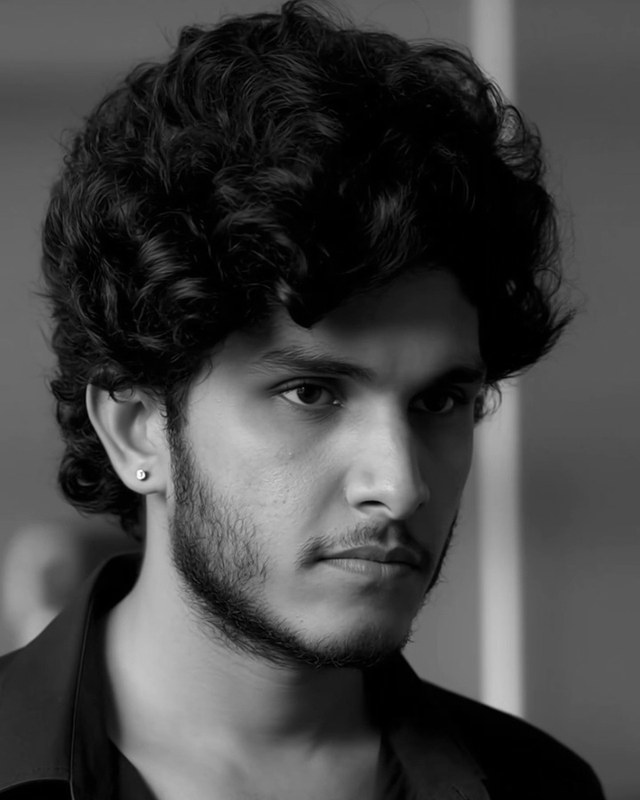
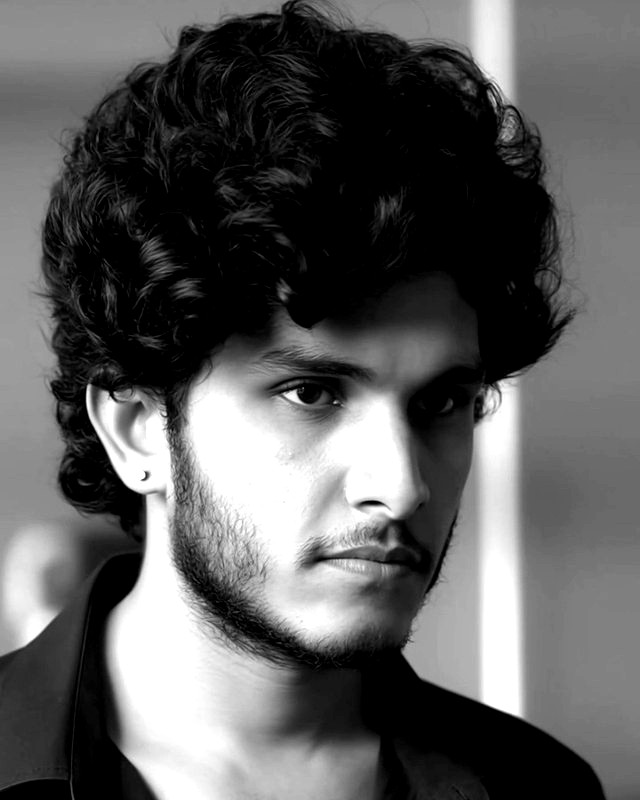
High-contrast black and white creator photo
Claude-Session: https://claude.ai/code/session_01FAh3rAxsR7oXYiAxV7DWwm

diff --git a/index.html b/index.html
@@ -77,7 +77,7 @@ a:focus-visible,.card:focus-visible{outline:3px solid var(--emerald);outline-off
 </section>
 <section aria-labelledby="t"><h2 id="t">The five tools</h2><div class="grid"><article class="card"><div class="ico"><svg xmlns="http://www.w3.org/2000/svg" viewBox="0 0 104 104"><defs><linearGradient id="vgxs" gradientUnits="userSpaceOnUse" x1="14" y1="14" x2="90" y2="90"><stop offset="0" stop-color="#B6FF00"/><stop offset="1" stop-color="#00D68F"/></linearGradient></defs><rect width="104" height="104" rx="24" fill="#0D1117"/><path d="M52 66V28M36 44L52 28L68 44M30 64V76H74V64" fill="none" stroke="url(#vgxs)" stroke-width="7.5" stroke-linecap="round" stroke-linejoin="round"/></svg></div><div class="body"><div class="top"><h3>GXS Product Uploader</h3><span class="free">Free</span></div><p>Upload product images in batches. It sorts them automatically, fills the dropdowns for you, checks every upload and saves safely. You can stop instantly at any point.</p><div class="meta"><span>v8.17.5</span><span>Works on graphxserver PDB</span></div></div></article><article class="card"><div class="ico"><svg xmlns="http://www.w3.org/2000/svg" viewBox="0 0 104 104"><defs><linearGradient id="vpdf" gradientUnits="userSpaceOnUse" x1="14" y1="14" x2="90" y2="90"><stop offset="0" stop-color="#B6FF00"/><stop offset="1" stop-color="#00D68F"/></linearGradient></defs><rect width="104" height="104" rx="24" fill="#0D1117"/><g fill="none" stroke="url(#vpdf)" stroke-width="6.5" stroke-linecap="round" stroke-linejoin="round"><path d="M30 20H58L76 38V84H30Z"/><path d="M58 20V38H76M42 54H64M42 64H64M42 74H54"/></g></svg></div><div class="body"><div class="top"><h3>PDF Layer Viewer</h3><span class="free">Free</span></div><p>Open a PDF, see every layer and switch each one on or off. Search layers, solo one, zoom in and select.</p><div class="meta"><span>v1.12.0</span><span>Opens PDFs in its own tab</span></div></div></article><article class="card"><div class="ico"><svg xmlns="http://www.w3.org/2000/svg" viewBox="0 0 104 104"><defs><linearGradient id="vimage" gradientUnits="userSpaceOnUse" x1="14" y1="14" x2="90" y2="90"><stop offset="0" stop-color="#B6FF00"/><stop offset="1" stop-color="#00D68F"/></linearGradient></defs><rect width="104" height="104" rx="24" fill="#0D1117"/><g fill="none" stroke="url(#vimage)" stroke-width="6.5" stroke-linecap="round" stroke-linejoin="round"><rect x="12" y="12" width="80" height="80" rx="15"/><path d="M20 82L31 68L42 82M62 82L74 66L84 80"/><circle cx="28" cy="28" r="3" fill="url(#vimage)" stroke="none"/></g><circle cx="52" cy="52" r="22" fill="url(#vimage)" stroke="#0D1117" stroke-width="6"/><path d="M52 40V62M41 52L52 63L63 52" fill="none" stroke="#0D1117" stroke-width="7" stroke-linecap="round" stroke-linejoin="round"/></svg></div><div class="body"><div class="top"><h3>Image Downloader & Zipper</h3><span class="free">Free</span></div><p>Paste product image links. The tool sorts them into folders and downloads everything as one ZIP.</p><div class="meta"><span>v5.4</span><span>Opens in its own tab</span></div></div></article><article class="card"><div class="ico"><svg xmlns="http://www.w3.org/2000/svg" viewBox="0 0 104 104"><defs><linearGradient id="vmapper" gradientUnits="userSpaceOnUse" x1="14" y1="14" x2="90" y2="90"><stop offset="0" stop-color="#B6FF00"/><stop offset="1" stop-color="#00D68F"/></linearGradient></defs><rect width="104" height="104" rx="24" fill="#0D1117"/><g fill="none" stroke="url(#vmapper)" stroke-width="7.5" stroke-linecap="round" stroke-linejoin="round"><circle cx="30" cy="70" r="8"/><circle cx="74" cy="34" r="8"/><path d="M38 70C58 70 44 36 66 36"/></g></svg></div><div class="body"><div class="top"><h3>Mapper Toolkit</h3><span class="free">Free</span></div><p>Copy rows, get help inside the product dialog, close the top window with Esc and export PSD files. All in one extension.</p><div class="meta"><span>v2.2.5</span><span>Works on graphxserver pages</span></div></div></article><article class="card"><div class="ico"><svg xmlns="http://www.w3.org/2000/svg" viewBox="0 0 104 104"><defs><linearGradient id="vmaster" gradientUnits="userSpaceOnUse" x1="14" y1="14" x2="90" y2="90"><stop offset="0" stop-color="#B6FF00"/><stop offset="1" stop-color="#00D68F"/></linearGradient></defs><rect width="104" height="104" rx="24" fill="#0D1117"/><g fill="none" stroke="url(#vmaster)" stroke-width="6.5" stroke-linecap="round" stroke-linejoin="round"><path d="M52 20L78 31V52C78 68 66 78 52 84C38 78 26 68 26 52V31Z"/><path d="M40 52L49 61L65 43"/></g></svg></div><div class="body"><div class="top"><h3>Master Quality Checker</h3><span class="free">Free</span></div><p>Make PDB links from Part IDs, run the Master Check and check the images. One tool for the whole routine.</p><div class="meta"><span>v2.104.3</span><span>Opens in its own tab</span></div></div></article></div></section>
 <section class="creator" aria-labelledby="a">
-<img class="photo" src="u-jay.jpg" width="640" height="800" alt="U Jay, creator of Fulmen Works">
+<img class="photo" src="u-jay.jpg?v=2" width="640" height="800" alt="U Jay, creator of Fulmen Works">
 <div class="who"><p class="eyebrow">Creator</p><h2 id="a">Udantha Jayathilaka</h2><p class="aka">Known as U Jay</p>
 <p>I build Fulmen Works. Every tool here started as a repeated task in my own product data work, and I turned it into a one-click extension so it never has to be done by hand again.</p></div>
 </section>
